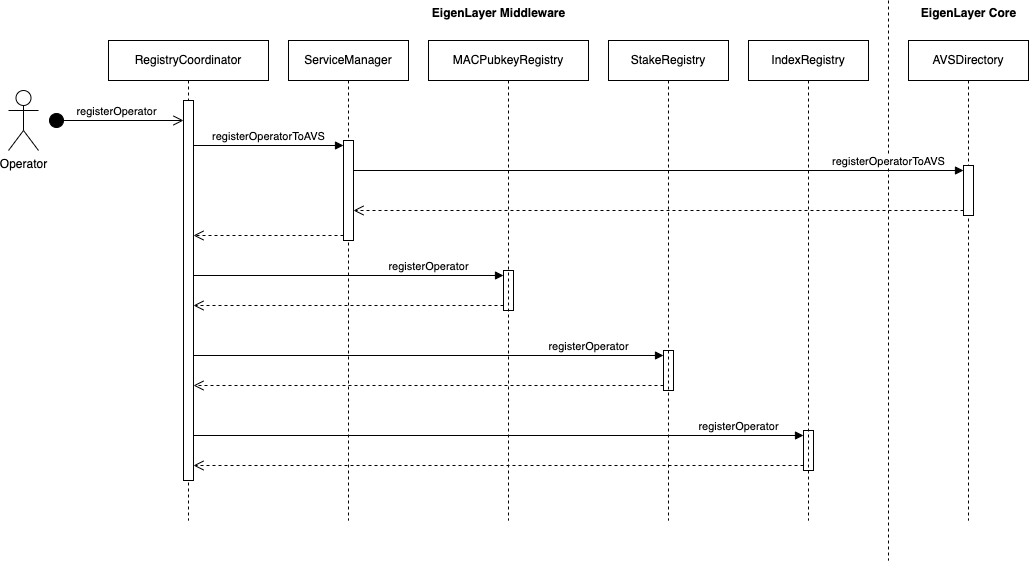
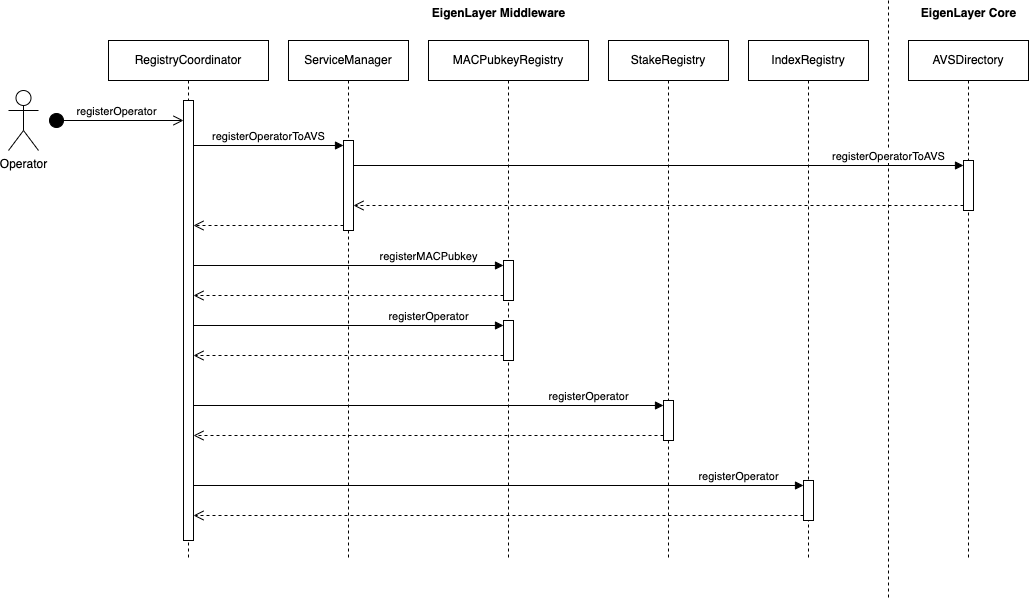
Update docs.

diff --git a/README.md b/README.md
@@ -14,9 +14,49 @@ These contracts are modified based on the default implementation of the [eigenla
 
 ![deregistor operator](/images/deregister_operator.png)
 
+### Register Operator With Churn
+
+The `registerOperatorWithChurn` function in the `RegistryCoordinator` contract allows any user to substitute an existing operator within quorums with a new one by providing a new address and MAC public key. This process involves verifying the signature of the churn approver as well as the signature of the operator to be replaced before implementing the modifications. The operational flow of `registerOperatorWithChurn` mirrors that of the `registerOperator` function, also part of the `RegistryCoordinator` contract, ensuring a consistent procedure for operator registration and replacement.
+
+### Update Operators Stake View
+
+Anyone can call the `updateOperators` function of the `RegistryCoordinator` contract to update the StakeRegistry's view of one or more operators' stakes. If any operator is found to be below the minimum stake for the quorum, they are deregistered.
+
+### Update Operators Stake View in Quorums
+
+Anyone can call the `updateOperatorsForQuorum` function of the `RegistryCoordinator` contract to update the StakeRegistry's view of ALL its registered operators' stakes for one or more quorums. Each quorum's `quorumUpdateBlockNumber` is also updated, which tracks the most recent block number when ALL registered operators were updated.
+
+### Update Socket for an Operator
+
+An operator can call the `updateSocket` function of the `RegistryCoordinator` contract to update their socket. This function is only accessible to registered operators.
+
 ### Slash Operator
 
 ![slash escalation](/images/slash_escalation.png)
+
+## Owner Functions
+
+### Create Quorum
+
+The `createQuorum` function of the `RegistryCoordinator` contract allows the owner to create a new quorum. The owner can specify the minimum stake required for the quorum, the `OperatorSetParam` including the max number of operators allowed in the quorum, and the `StrategyParams` of `IStakeRegistry`.
+
+### Set Operator Set Params
+
+The `setOperatorSetParams` function of the `RegistryCoordinator` contract allows the owner to set the `OperatorSetParam` of a quorum.
+
+### Set Churn Approver
+
+The `setChurnApprover` function of the `RegistryCoordinator` contract allows the owner to set address of the churn approver.
+
+### Set Ejector
+
+The `setEjector` function of the `RegistryCoordinator` contract allows the owner to set address of the ejector.
+
+## Ejector Functions
+
+### Eject Operator
+
+The `ejectOperator` function of the `RegistryCoordinator` contract allows the ejector to deregister an operator.
 
 ## Contracts Events
 
@@ -24,7 +64,12 @@ These contracts are modified based on the default implementation of the [eigenla
 |---|---|---|---
 | RegistryCoordinator | registerOperator | OperatorRegistered(operator, operatorId) | If the operator is not registered or has been deregistered, the operator can be registered.
 | | deregisterOperator | OperatorDeregistered(operator, operatorId) | -
-| MACPubkeyRegistry | registerOperator | OperatorAddedToQuorum(operator, quorumNumber) | -
+| | setOperatorSetParams | OperatorSetParamsUpdated(quorumNumber, operatorSetParams) | -
+| | setChurnApprover | ChurnApproverUpdated(churnApprover) | -
+| | setEjector | EjectorUpdated(ejector) | -
+| | updateOperatorsForQuorum | QuorumBlockNumberUpdated(quorumNumber, blocknumber) | -
+| MACPubkeyRegistry | registerMACPubkey | NewPubkeyRegistration(operator, pubkeyInMAC, rawInitialSessionKeys) | The `rawInitialSessionKeys` will not saved in the contract storage.
+| | registerOperator | OperatorAddedToQuorum(operator, quorumNumber) | -
 | | deregisterOperator | OperatorRemovedFromQuorum(operator, quorumNumber) | -
 | StakeRegistry | registerOperator | OperatorStakeUpdate(operatorId, quorumNumber, newStake) | -
 | | deregisterOperator | OperatorStakeUpdate(operatorId, quorumNumber, newStake) | The `newStake` in the event is 0.
